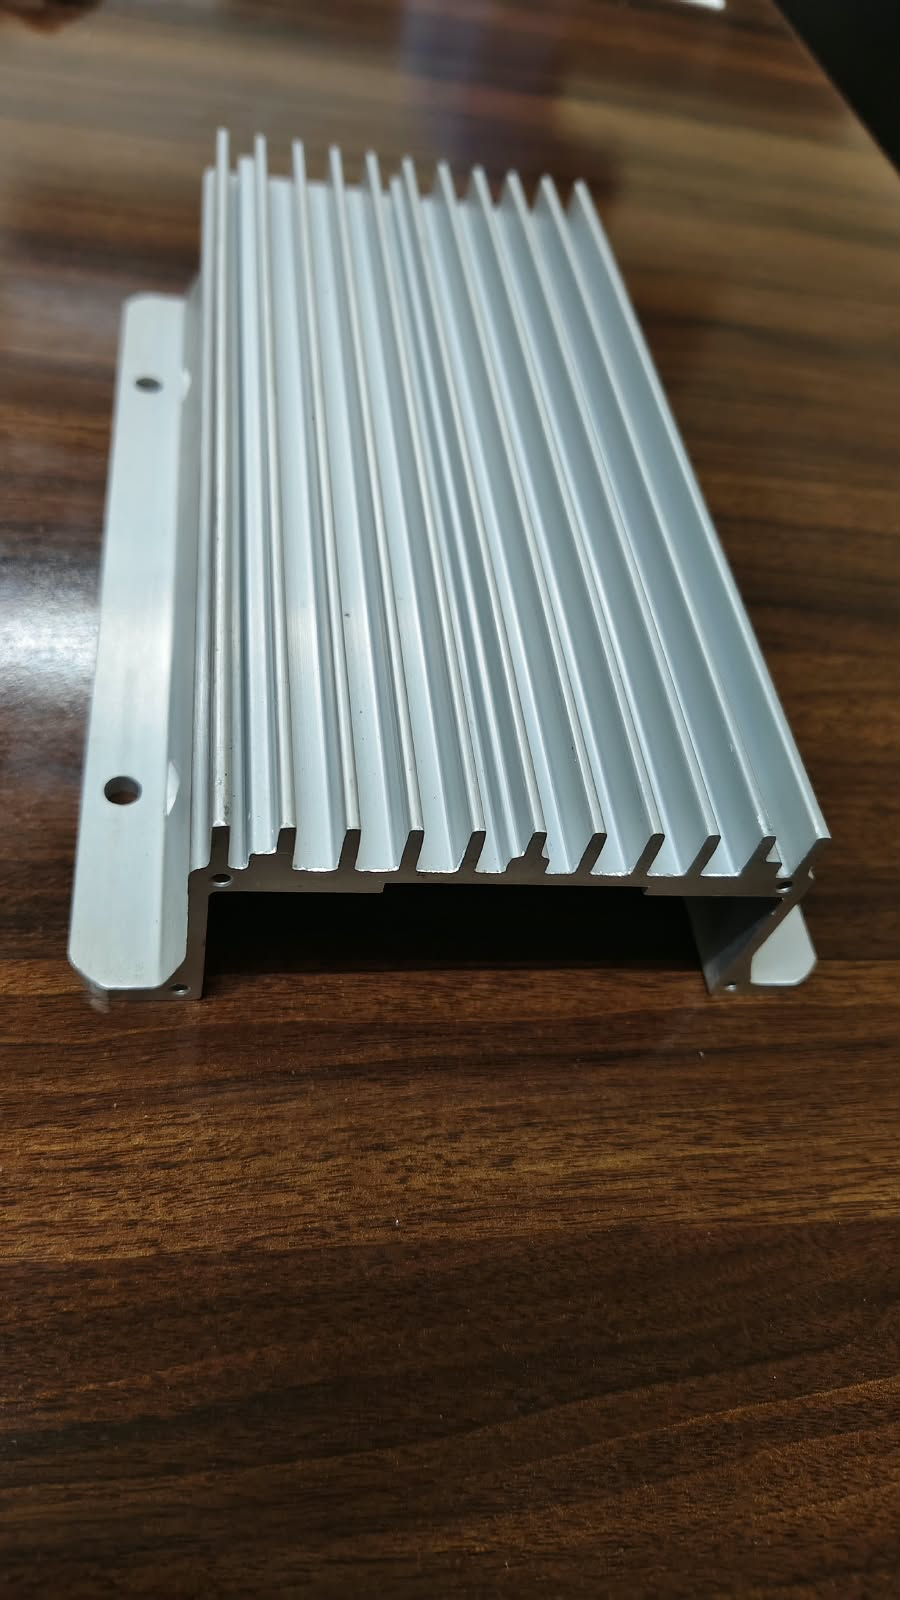
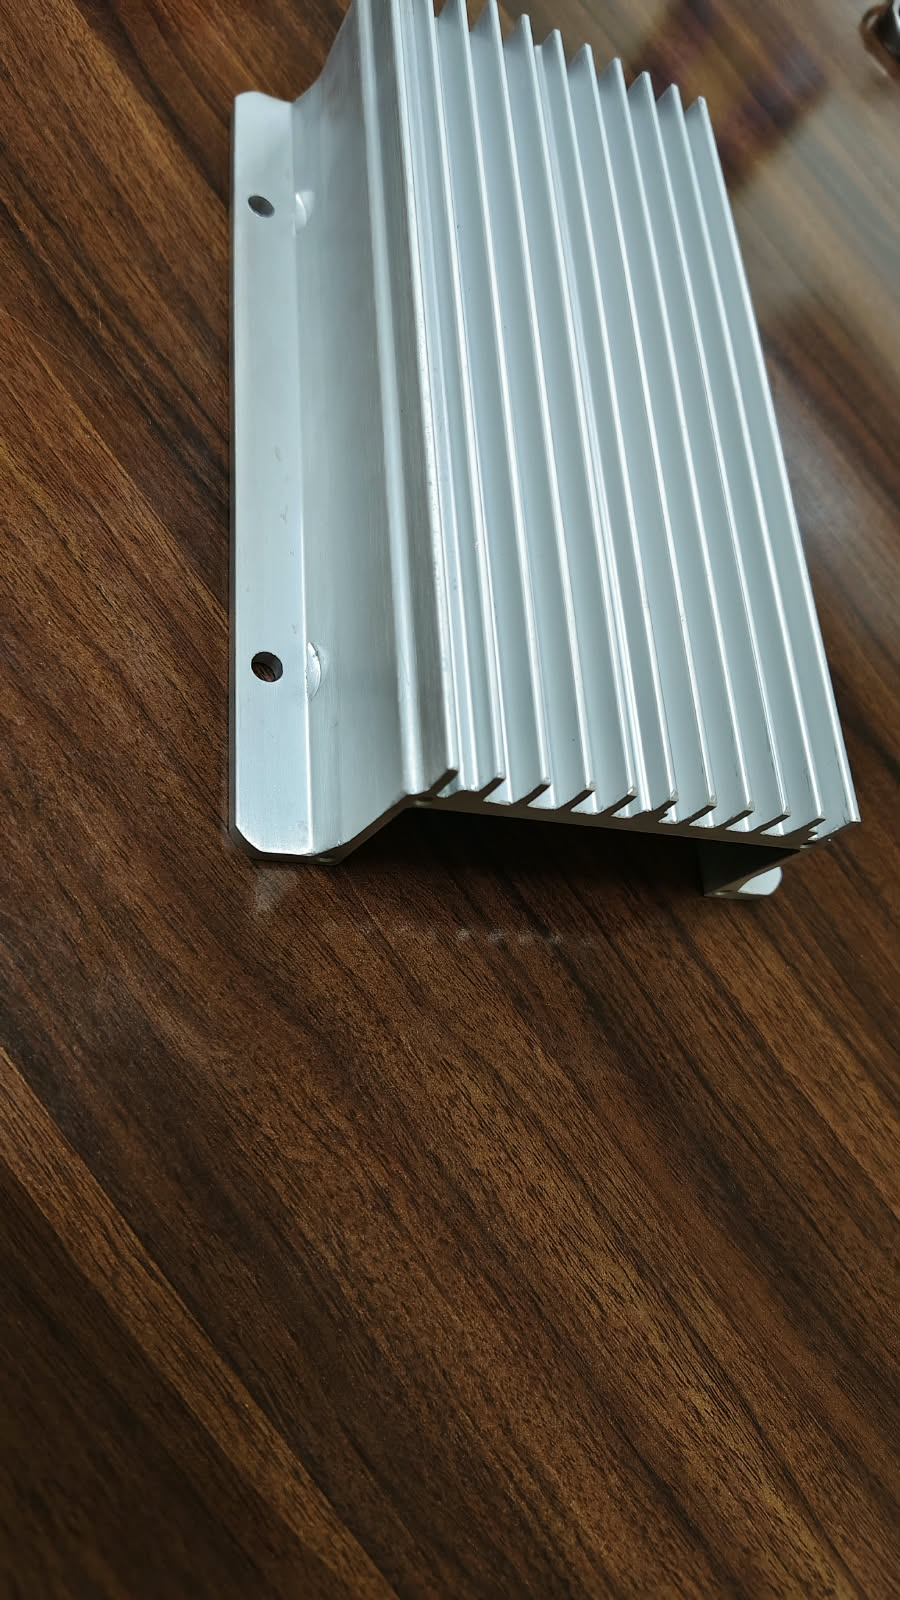
Solve Error

diff --git a/products.html b/products.html
@@ -51,13 +51,13 @@
             </div>
           </div>
           <div class="card product">
-            <img src="Media/Aluminium Extrusion & Machining.png" alt="Aluminium extrusion machining">
+            <img src="Media/Aluminium Extrusion & Machining2.jpeg" alt="Aluminium Extrusion & Machining">
             <div class="body">
-              <span class="badge"> Extrusion</span><h3> Aluminium Extrusion & Machining</h3><p> Machined aluminium extrusion components shown in the supplied product profile.</p>
+              <span class="badge"> Extrusion</span><h3> Aluminium Extrusion & Machining</h3><p>  Aluminium Extrusion & Machining</h3><p> Machined aluminium extrusion components shown in the supplied product profile.</p>
             </div>
           </div>
           <div class="card product">
-            <img src="Media/WhatsApp Image 2026-09-15 at 5.39.52 PM.jpeg" alt="Anodized sheet metal part">
+            <img src="Media/Sheet Metal Parts with Anodizing.jpeg" alt="Anodized sheet metal part">
             <div class="body">
               <span class="badge"> Sheet Metal</span><h3> Sheet Metal Parts with Anodizing</h3><p> Sheet metal component examples with anodizing as described in the profile.</p>
             </div>
